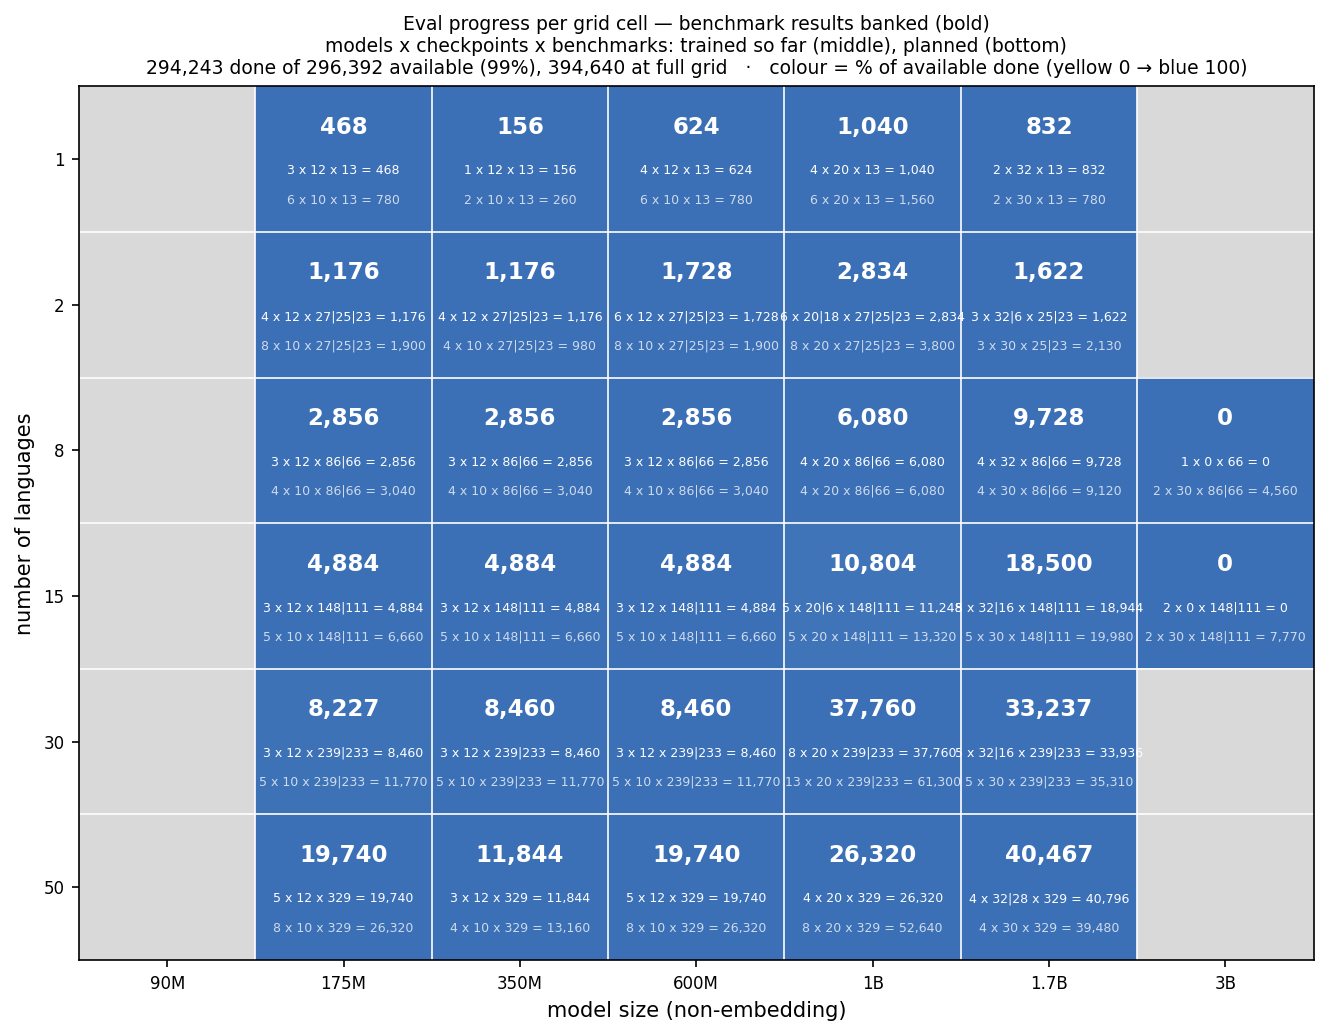
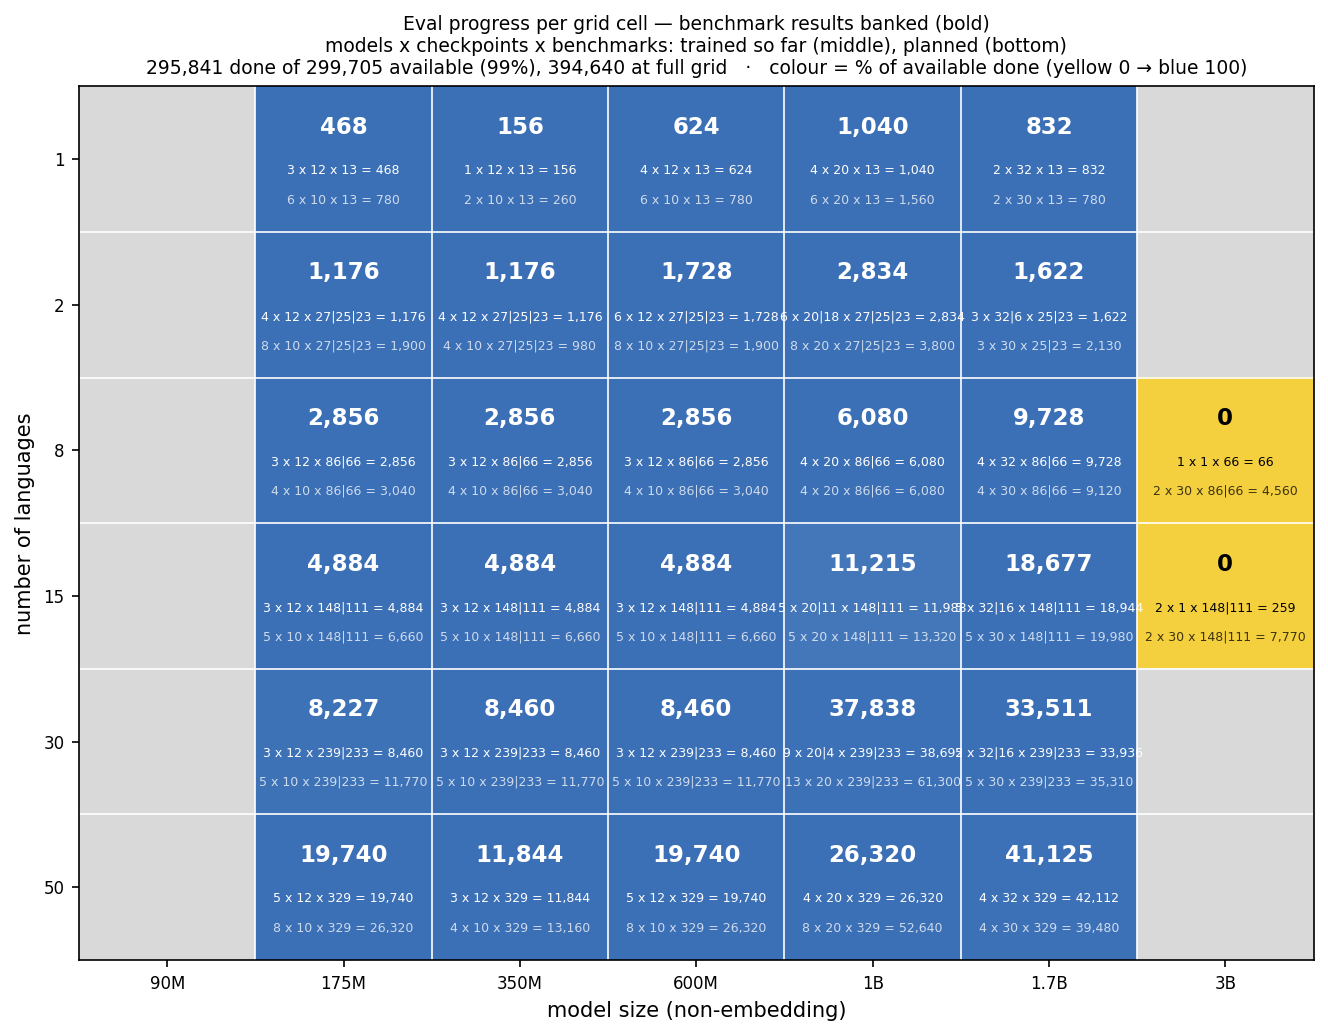
update progress and docstrings

diff --git a/src/signal-and-noise/analysis/rq04_surrogates/analyze_snr_variants.py b/src/signal-and-noise/analysis/rq04_surrogates/analyze_snr_variants.py
@@ -186,7 +186,16 @@ def _gather_points(df: pd.DataFrame, stat: str, variant: str,
 def _pearson_r(xs, ys, log_x, tasks=None):
     """Pearson r of (log10) x with y. With `tasks` (one per point) the r is a
     per-language one and needs MIN_LANG_TASKS distinct tasks with a point
-    (rule 8): a task pooled over several sizes is still one task."""
+    (rule 8): a task pooled over several sizes is still one task.
+
+    The bare `len(xs) < 3` is NOT MIN_LANG_TASKS: 3 is the mathematical
+    minimum for a Pearson r (at n = 2 it is +/-1 by construction), so it is a
+    floor on POINTS that holds whatever rule 8 is set to. The two happen to
+    coincide today, both 3. If MIN_LANG_TASKS moves, re-check this line —
+    raising rule 8 leaves this floor behind (harmless, the task floor binds
+    first), but lowering it below 3 would not lower this one, and a language
+    with 2 tasks would still return NaN here.
+    """
     if len(xs) < 3 or (tasks is not None and len(set(tasks)) < MIN_LANG_TASKS):
         return float("nan")
     x = np.log10(xs) if log_x else np.asarray(xs)

diff --git a/documents/figures/predictivity.py b/documents/figures/predictivity.py
@@ -5,6 +5,15 @@ At a fixed number of languages the ladder offers one design decision: depth
 one measurement -- a single language's bits per byte, macro BPB, or a benchmark
 task -- a proxy size is predictive when it picks the same winner as the largest
 size trained at that L, and every size above it does too.
+
+TODO (before this is used again): it loads `load_predictivity_eval_results()`
+raw, so it applies NONE of the analysis-wide rules. Nothing in
+scripts/refresh_analysis.sh runs it and nothing imports it, which is the only
+reason that is currently harmless. Anything it produces for the deck or the
+paper must first go through `analysis.utils.build_snr_pool` -- or, if it keeps
+its own loader, filter to ANALYSIS_SIZES (rule 10: 175M to the reference, so
+the 3B rung does not quietly become a column), `parents_only` (rule 6) and
+`trained_only` (rule 2), which is exactly what build_snr_pool does in one call.
 """
 import os, sys
 from pathlib import Path

diff --git a/src/signal-and-noise/analysis/utils.py b/src/signal-and-noise/analysis/utils.py
@@ -2,8 +2,16 @@
 the config-derived size params, and the SNR signal-pool loader.
 
 These carry no research-question identity, so every ``rqNN_*`` script imports
-them from here instead of from a sibling RQ. That keeps the numbered run order
-a clean DAG: a lower-numbered RQ never imports a higher-numbered one.
+them from here instead of from a sibling RQ, which keeps most of the numbered
+run order a clean DAG.
+
+It is not a strict one: rq03's ``compare_seed_splits`` imports rq04's
+``analyze_snr_variants`` / ``snr_definition_postprocess``, and rq03's
+``effect_vs_noise`` imports rq05's ``INTERVENTIONS``. Those are imports of
+FUNCTIONS AND CONSTANTS only — neither module reads a file at import time — so
+the run order is unaffected and a lower RQ never waits on a higher one's
+tables. Keep it that way: anything that would make a lower-numbered RQ read a
+higher-numbered one's OUTPUT belongs here instead.
 """
 
 from __future__ import annotations

diff --git a/src/pretrain/pretrain_progress_1b_17b.md b/src/pretrain/pretrain_progress_1b_17b.md
@@ -3,7 +3,7 @@
 <!-- Generated by pretrain_progress.py (--plot, every `launch_trainings.py cscs`
 launch, every auto-eval watcher pass) — do not edit. -->
 
-Snapshot 2026-09-21 14:41. One row per planned run, deep then shallow, of
+Snapshot 2026-09-21 16:07. One row per planned run, deep then shallow, of
 every account: the queue is read for all users, the training logs from both
 mariagrandury's and aromanou's log dirs, the checkpoints from the shared
 `Meg-Runs/msnr` tree.
@@ -21,7 +21,7 @@ mariagrandury's and aromanou's log dirs, the checkpoints from the shared
   running one does not (what it trains before its exit is subtracted first).
   At `ITER_MS` with 10.8h of training per job.
 
-## 1B — 44 runs: 29 done · 2 running · 1 queued · 12 not started · ≈ 3,397 node-hours of training left
+## 1B — 44 runs: 29 done · 2 running · 1 queued · 12 not started · ≈ 3,327 node-hours of training left
 
 | run | data (FineWeb-2) | ckpt / target | % | state | jobs left |
 |---|---|---|---:|---|---:|
@@ -39,8 +39,8 @@ mariagrandury's and aromanou's log dirs, the checkpoints from the shared
 | `lm-1B-L50-deep-seed28` | `data/fineweb_L50` | 0 / 45,720 | 0% | not started | 2 |
 | `lm-1B-L50-deep-seed1797` | `data/fineweb_L50` | 0 / 45,720 | 0% | not started | 2 |
 | `lm-1B-L50-deep-seed1904` | `data/fineweb_L50` | 45,720 / 45,720 | 100% | done | — |
-| `lm-1B-L15-AT3-deep-seed1904` | `data/AT3/fineweb_L15` | 19,431 / 45,720 | 44% | running `3463886` (mariagrandury), iter 20,503, job ends Tue 22 Sep 13:37 | 0 |
-| `lm-1B-L30-AT3-deep-seed1904` | `data/AT3/fineweb_L30` | 4,572 / 45,720 | 10% | running `3464707` (mariagrandury), iter 5,010, job ends Tue 22 Sep 13:37 | 0 |
+| `lm-1B-L15-AT3-deep-seed1904` | `data/AT3/fineweb_L15` | 26,622 / 45,720 | 58% | running `3463886` (mariagrandury), iter 26,622, job ends Tue 22 Sep 16:05 | 0 |
+| `lm-1B-L30-AT3-deep-seed1904` | `data/AT3/fineweb_L30` | 11,568 / 45,720 | 25% | running `3464707` (mariagrandury), iter 11,568, job ends Tue 22 Sep 16:05 | 0 |
 | `lm-1B-L50-AT3-deep-seed1904` | `data/AT3/fineweb_L50` | 45,720 / 45,720 | 100% | done | — |
 | `lm-1B-L8-schemeB-deep-seed1904` | `data/schemeB/fineweb_L8` | 45,740 / 45,720 | 100% | done | — |
 | `lm-1B-L15-schemeB-deep-seed1904` | `data/schemeB/fineweb_L15` | 45,740 / 45,720 | 100% | done | — |
@@ -54,7 +54,7 @@ mariagrandury's and aromanou's log dirs, the checkpoints from the shared
 | `lm-1B-L1-shallow-seed1904` | English only | 45,920 / 45,920 | 100% | done | — |
 | `lm-1B-L2-shallow-seed28` | `data/fineweb_L2` | 0 / 45,920 | 0% | not started | 2 |
 | `lm-1B-L2-shallow-seed1797` | `data/fineweb_L2` | 0 / 45,920 | 0% | not started | 2 |
-| `lm-1B-L2-shallow-seed1904` | `data/fineweb_L2` | 43,027 / 45,920 | 93% | queued `3464987` (aromanou, QOSGrpNodeLimit), starts ~Mon 21 Sep 15:10 | 1 |
+| `lm-1B-L2-shallow-seed1904` | `data/fineweb_L2` | 43,027 / 45,920 | 93% | queued `3466391` (mariagrandury, Priority) | 1 |
 | `lm-1B-L8-shallow-seed1904` | `data/fineweb_L8` | 45,920 / 45,920 | 100% | done | — |
 | `lm-1B-L15-shallow-seed1904` | `data/fineweb_L15` | 45,920 / 45,920 | 100% | done | — |
 | `lm-1B-L30-shallow-seed28` | `data/fineweb_L30` | 0 / 45,920 | 0% | not started | 2 |
@@ -70,7 +70,7 @@ mariagrandury's and aromanou's log dirs, the checkpoints from the shared
 | `lm-1B-L30-schemeB-shallow-seed1797` | `data/schemeB/fineweb_L30` | 0 / 45,920 | 0% | not started | 2 |
 | `lm-1B-L30-schemeB-shallow-seed1904` | `data/schemeB/fineweb_L30` | 45,920 / 45,920 | 100% | done | — |
 
-## 1.7B — 23 runs: 19 done · 1 running · 2 queued · 1 idle · ≈ 1,041 node-hours of training left
+## 1.7B — 23 runs: 20 done · 2 queued · 1 idle · ≈ 1,023 node-hours of training left
 
 | run | data (FineWeb-2) | ckpt / target | % | state | jobs left |
 |---|---|---|---:|---|---:|
@@ -80,8 +80,8 @@ mariagrandury's and aromanou's log dirs, the checkpoints from the shared
 | `lm-1.7B-L15-deep-seed1904` | `data-92B/fineweb_L15` | 81,000 / 81,000 | 100% | done | — |
 | `lm-1.7B-L30-deep-seed1904` | `data/fineweb_L30` | 81,000 / 81,000 | 100% | done | — |
 | `lm-1.7B-L50-deep-seed1904` | `data-92B/fineweb_L50` | 81,000 / 81,000 | 100% | done | — |
-| `lm-1.7B-L15-AT3-deep-seed1904` | `data/AT3/fineweb_L15` | 44,550 / 81,000 | 55% | queued `3457832` (mariagrandury, launch failure limit exceeded requeued held) | 2 |
-| `lm-1.7B-L30-AT3-deep-seed1904` | `data/AT3/fineweb_L30` | 43,200 / 81,000 | 53% | queued `3457833` (mariagrandury, launch failure limit exceeded requeued held) | 2 |
+| `lm-1.7B-L15-AT3-deep-seed1904` | `data/AT3/fineweb_L15` | 44,875 / 81,000 | 55% | queued `3466091` (mariagrandury, Priority) | 2 |
+| `lm-1.7B-L30-AT3-deep-seed1904` | `data/AT3/fineweb_L30` | 43,579 / 81,000 | 53% | queued `3466092` (mariagrandury, Resources) | 2 |
 | `lm-1.7B-L50-AT3-deep-seed1904` | `data/AT3/fineweb_L50` | 81,000 / 81,000 | 100% | done | — |
 | `lm-1.7B-L8-schemeB-deep-seed1904` | `data/schemeB/fineweb_L8` | 81,000 / 81,000 | 100% | done | — |
 | `lm-1.7B-L15-schemeB-deep-seed1904` | `data-92B/schemeB/fineweb_L15` | 81,000 / 81,000 | 100% | done | — |
@@ -93,19 +93,19 @@ mariagrandury's and aromanou's log dirs, the checkpoints from the shared
 | `lm-1.7B-L15-shallow-seed1904` | `data-92B/fineweb_L15` | 80,640 / 80,640 | 100% | done | — |
 | `lm-1.7B-L30-shallow-seed1904` | `data/fineweb_L30` | 80,640 / 80,640 | 100% | done | — |
 | `lm-1.7B-L50-shallow-seed1904` | `data-92B/fineweb_L50` | 80,640 / 80,640 | 100% | done | — |
-| `lm-1.7B-L50-AT3-shallow-seed1904` | `data/AT3/fineweb_L50` | 77,952 / 80,640 | 97% | running `3463874` (mariagrandury), iter 78,791, job ends Tue 22 Sep 13:37 | 0 |
+| `lm-1.7B-L50-AT3-shallow-seed1904` | `data/AT3/fineweb_L50` | 80,640 / 80,640 | 100% | done | — |
 | `lm-1.7B-L8-schemeB-shallow-seed1904` | `data/schemeB/fineweb_L8` | 80,640 / 80,640 | 100% | done | — |
 | `lm-1.7B-L15-schemeB-shallow-seed1904` | `data-92B/schemeB/fineweb_L15` | 80,640 / 80,640 | 100% | done | — |
 | `lm-1.7B-L30-schemeB-shallow-seed1904` | `data/schemeB/fineweb_L30` | 80,640 / 80,640 | 100% | done | — |
 
-## 3B — 4 runs: 3 running · 1 not started · ≈ 7,586 node-hours of training left
+## 3B — 4 runs: 2 running · 2 queued · ≈ 7,474 node-hours of training left
 
 | run | data (FineWeb-2) | ckpt / target | % | state | jobs left |
 |---|---|---|---:|---|---:|
-| `lm-3B-L8-deep-seed1904` | `data/fineweb_L8` ⚠ draws 149.9B (1.63 epochs) from a 92.0B build the grid now sizes at 165.0B — stage the full build first | 0 / 145,200 | 0% | not started | 9 |
-| `lm-3B-L15-deep-seed1904` | `data-165B/fineweb_L15` | 4,840 / 145,200 | 3% | running `3463891` (mariagrandury), iter 5,189, job ends Tue 22 Sep 13:37 | 7 |
-| `lm-3B-L8-schemeB-deep-seed1904` | `data-165B/schemeB/fineweb_L8` | 4,840 / 145,200 | 3% | running `3463892` (mariagrandury), iter 5,158, job ends Tue 22 Sep 13:37 | 7 |
-| `lm-3B-L15-schemeB-deep-seed1904` | `data-165B/schemeB/fineweb_L15` | 4,840 / 145,200 | 3% | running `3463893` (mariagrandury), iter 5,055, job ends Tue 22 Sep 13:37 | 7 |
+| `lm-3B-L8-deep-seed1904` | `data-165B/fineweb_L8` | 330 / 145,200 | 0% | queued `3466094` (mariagrandury, Priority) | 9 |
+| `lm-3B-L15-deep-seed1904` | `data-165B/fineweb_L15` | 7,749 / 145,200 | 5% | queued `3463891` (mariagrandury, Priority) | 9 |
+| `lm-3B-L8-schemeB-deep-seed1904` | `data-165B/schemeB/fineweb_L8` | 7,877 / 145,200 | 5% | running `3463892` (mariagrandury), iter 7,877, job ends Tue 22 Sep 16:05 | 6 |
+| `lm-3B-L15-schemeB-deep-seed1904` | `data-165B/schemeB/fineweb_L15` | 7,742 / 145,200 | 5% | running `3463893` (mariagrandury), iter 7,742, job ends Tue 22 Sep 16:05 | 6 |
 
 ## Launch / resume
 
@@ -128,9 +128,8 @@ python3.11 pretrain/launch_trainings.py cscs --size 1B --scheme B --arch shallow
 # 1.7B
 python3.11 pretrain/launch_trainings.py cscs --size 1.7B --scheme AT3  # 2 incomplete: 2 queued
 python3.11 pretrain/launch_trainings.py cscs --size 1.7B --scheme ZH  # 1 incomplete: 1 idle
-python3.11 pretrain/launch_trainings.py cscs --size 1.7B --scheme AT3 --arch shallow  # 1 incomplete: 1 running
 
 # 3B
-python3.11 pretrain/launch_trainings.py cscs --size 3B  # 2 incomplete: 1 not started, 1 running
+python3.11 pretrain/launch_trainings.py cscs --size 3B  # 2 incomplete: 2 queued
 python3.11 pretrain/launch_trainings.py cscs --size 3B --scheme B  # 2 incomplete: 2 running
 ```
